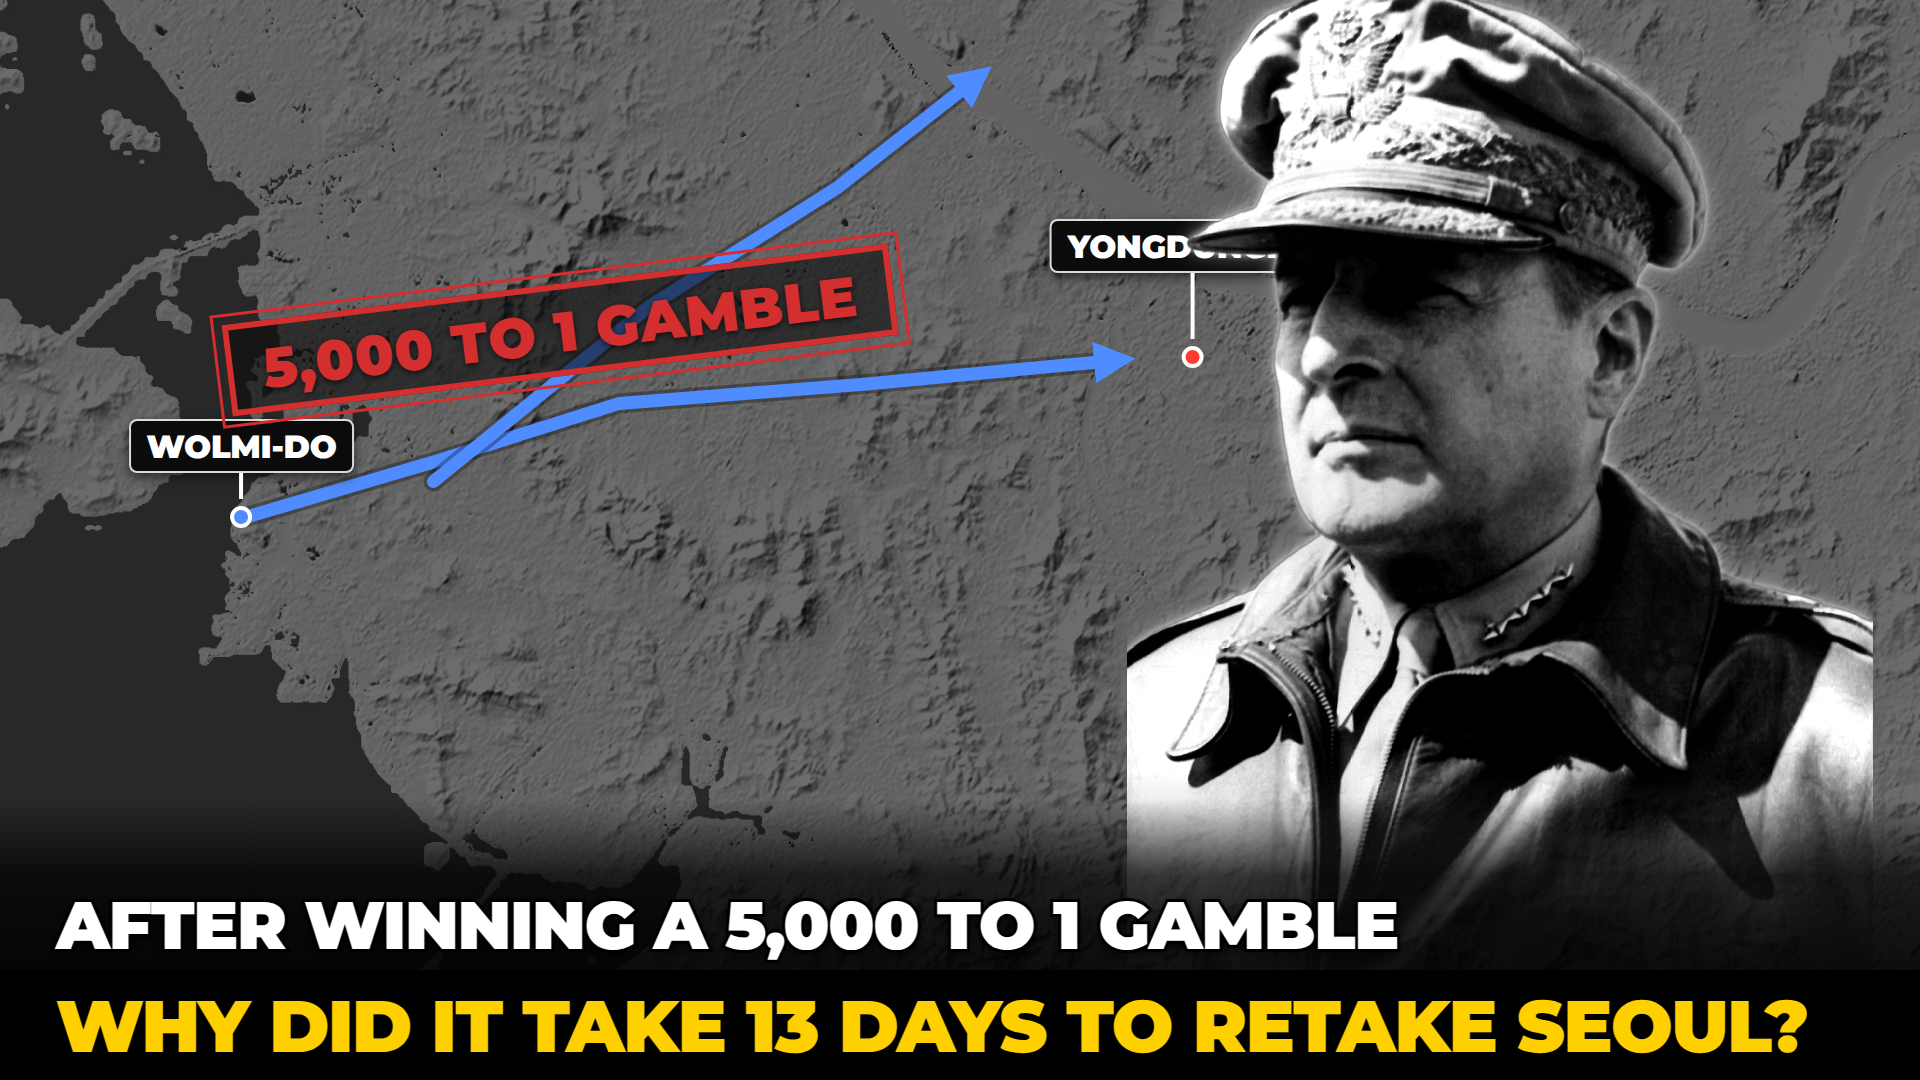
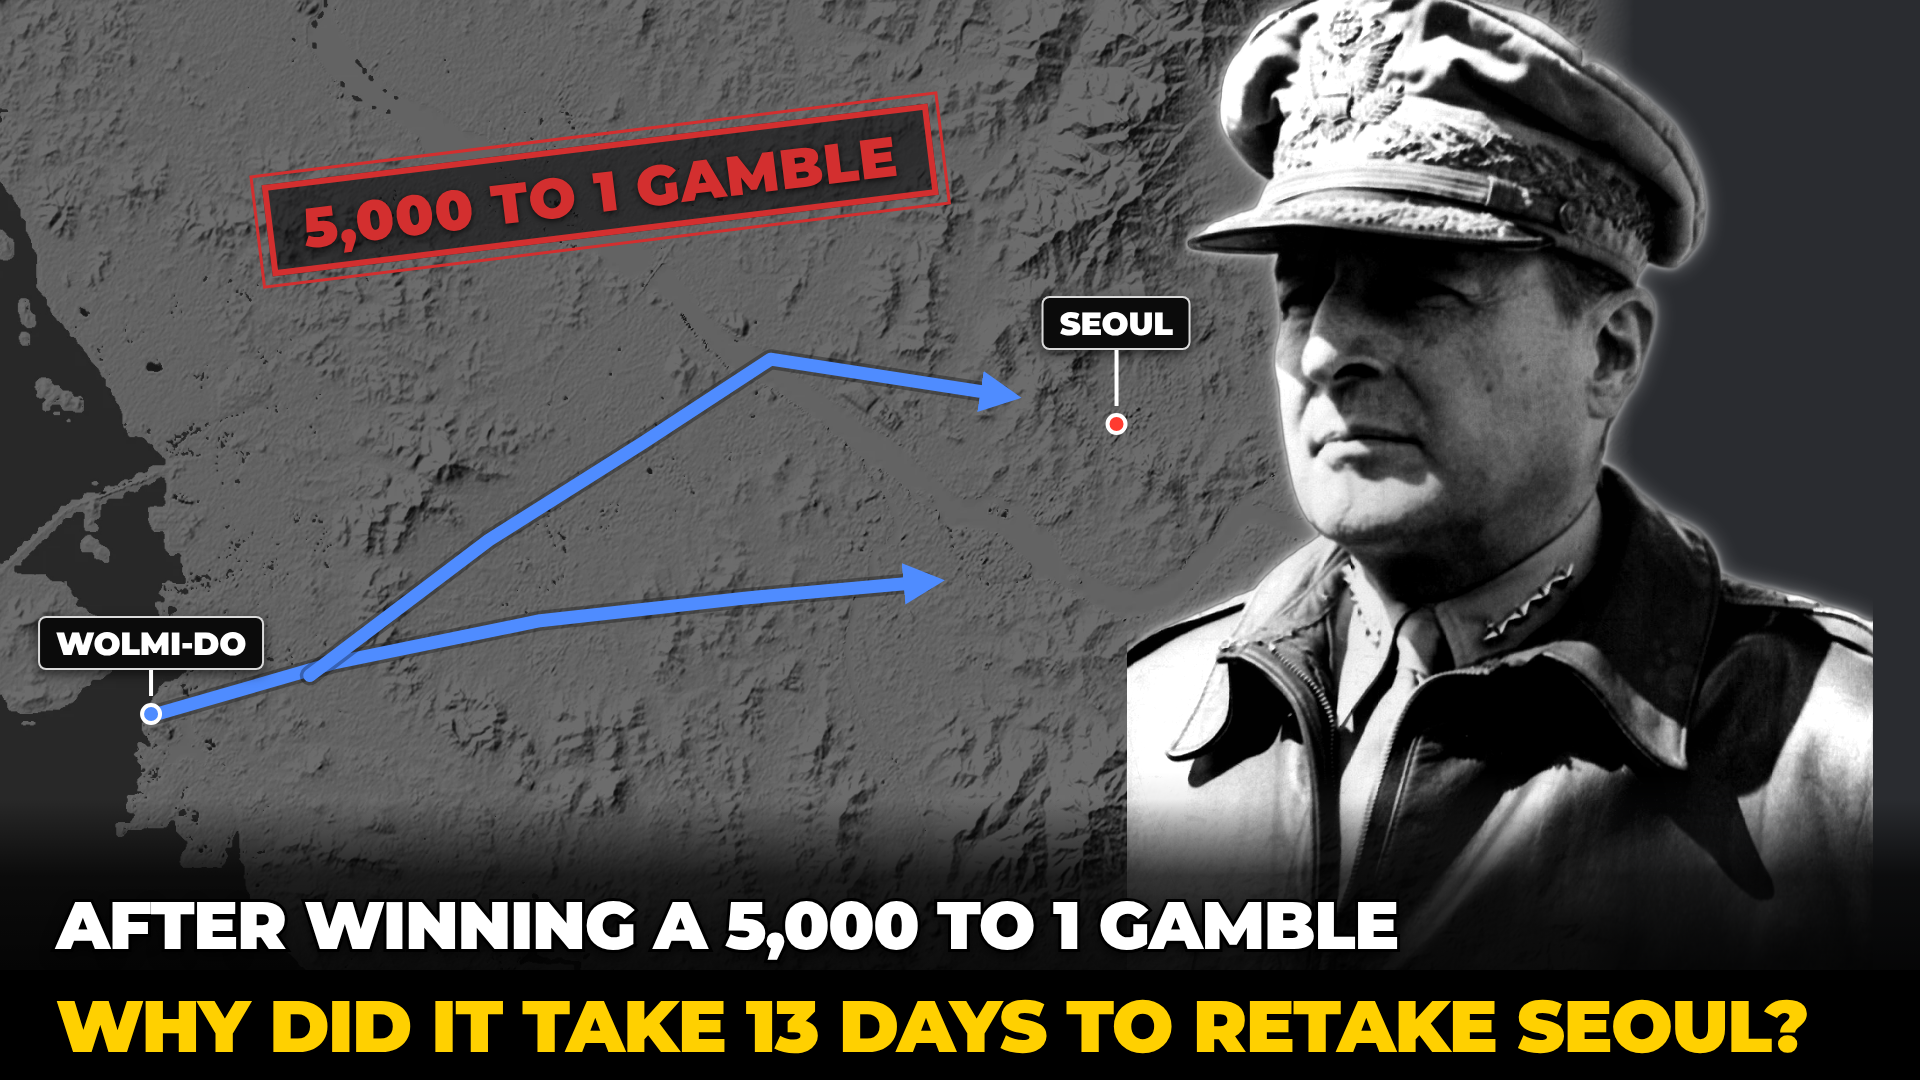
EP11 썸네일: 서울 핀·스탬프 위치 조정 (영등포 핀이 얼굴에 가림 → 서울, 스탬프가 화살표와 겹침 → 위로)
Claude-Session: https://claude.ai/code/session_01SkesRRE1LjvLJUSqgPMzMS

diff --git a/remotion/MapThumb.tsx b/remotion/MapThumb.tsx
@@ -68,16 +68,15 @@ export const MAPT: Record<string, MapThumbDef> = {
   // EP11 인천상륙작전과 서울 수복 (1950) — 좌표는 episodes/incheon/storyboard.json과 동일 (개략), 인물은 맥아더 공개 사진 누끼(thumb_photo)
   incheon: {
     raster: "incheon_sea",
-    view: { center: [126.83, 37.47], span: 0.62 },
+    view: { center: [126.914, 37.53], span: 0.75 },
     items: [
-      { k: "arrow", path: [[126.6, 37.476], [126.66, 37.49], [126.72, 37.505], [126.8, 37.51], [126.88, 37.516]], color: "blue" },
-      { k: "arrow", path: [[126.66, 37.485], [126.73, 37.53], [126.79, 37.56], [126.835, 37.588]], color: "blue" },
-      { k: "front", path: [[126.946, 37.586], [126.944, 37.577], [126.937, 37.571], [126.932, 37.566], [126.929, 37.559], [126.928, 37.551], [126.931, 37.543]] },
+      { k: "arrow", path: [[126.6, 37.476], [126.67, 37.492], [126.75, 37.505], [126.83, 37.512], [126.9, 37.517]], color: "blue" },
+      { k: "arrow", path: [[126.66, 37.488], [126.73, 37.53], [126.79, 37.56], [126.84, 37.586], [126.93, 37.575]], color: "blue" },
       { k: "pin", p: [126.598, 37.476], text: { ko: "월미도", en: "WOLMI-DO" }, color: "blue" },
-      { k: "pin", p: [126.905, 37.517], text: { ko: "영등포", en: "YONGDUNGPO" }, color: "red", lift: 40 },
+      { k: "pin", p: [126.975, 37.566], text: { ko: "서울", en: "SEOUL" }, color: "red", lift: 30 },
     ],
     subjectX: 1500,
-    stampPos: { x: 560, y: 330, rot: -7 },
+    stampPos: { x: 600, y: 190, rot: -7 },
     ko: { stamp: "5,000대 1 도박", line1: "5,000대 1의 상륙을 성공하고도 왜", line2: "서울 탈환에 13일이나 걸렸을까?" },
     en: { stamp: "5,000 TO 1 GAMBLE", line1: "AFTER WINNING A 5,000 TO 1 GAMBLE", line2: "WHY DID IT TAKE 13 DAYS TO RETAKE SEOUL?" },
   },
